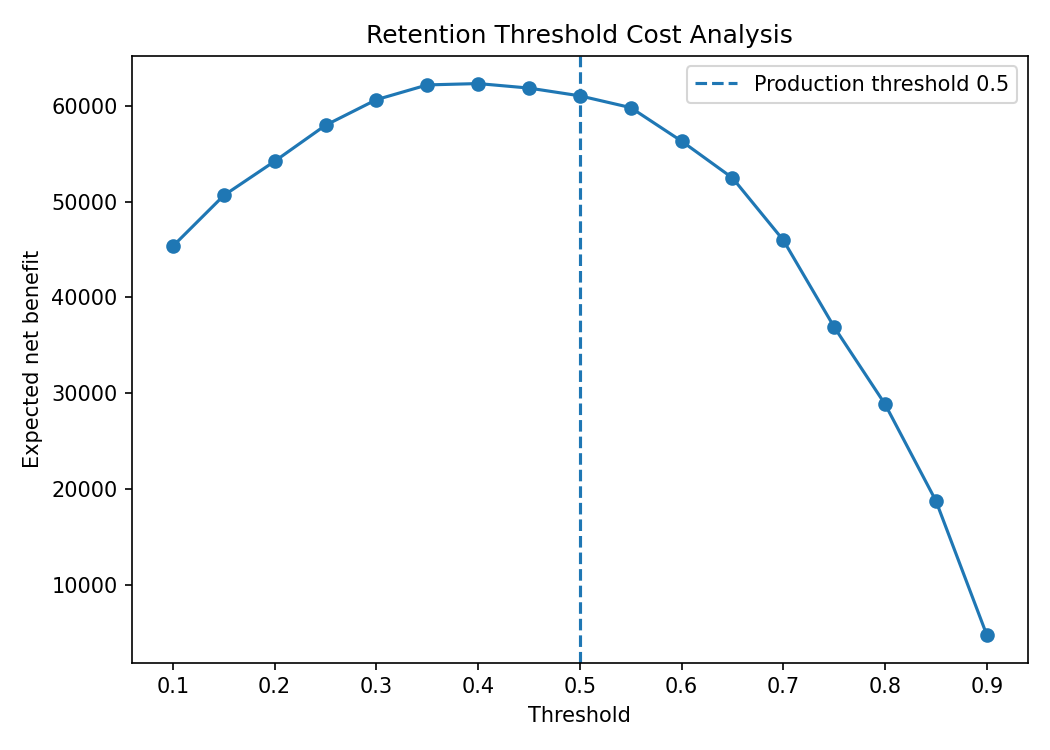
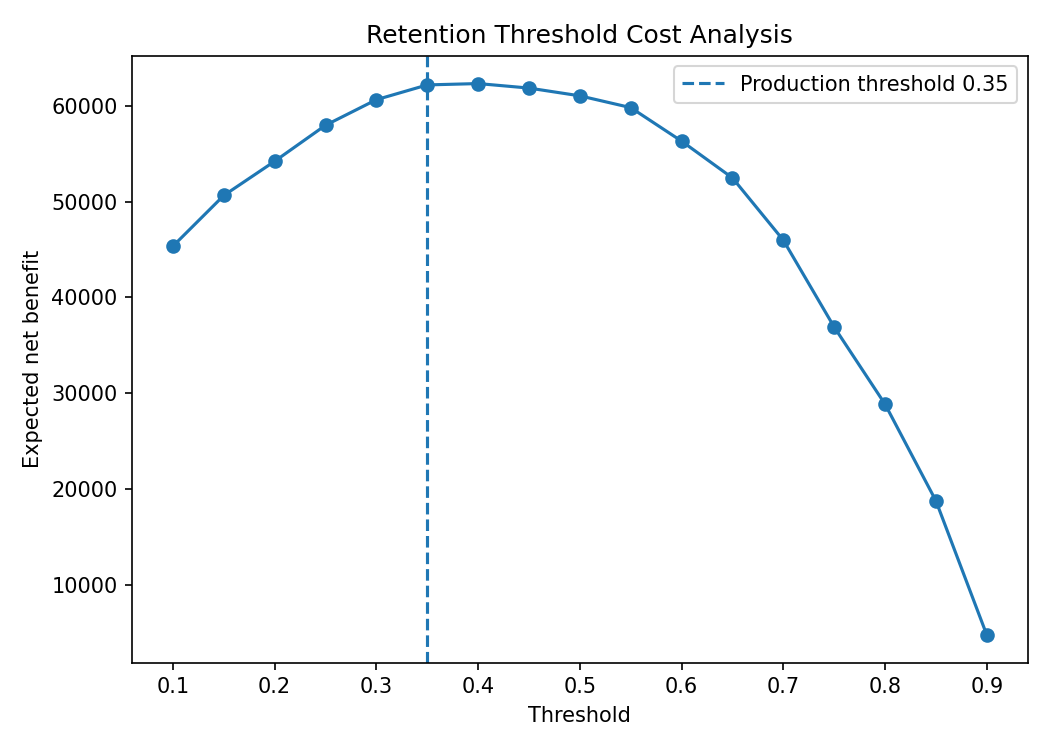
Set production churn threshold to 0.35 and align risk bands
Read the decision threshold from config in training and the cost analysis, derive the Medium risk band from it, add a test-set comparison of 0.35, 0.40 and 0.50, and update README metrics. The model is not retrained.

Changed region(s): [[0.701, 0.092, 0.9752, 0.1227], [0.64, 0.092, 0.6705, 0.1227]]

diff --git a/scripts/threshold_cost_analysis.py b/scripts/threshold_cost_analysis.py
@@ -16,6 +16,7 @@ sys.path.insert(0, os.path.abspath(os.path.join(os.path.dirname(__file__), "..")
 
 from src.features.preprocessing import prepare_features
 from src.serving.config import (
+    CHURN_THRESHOLD,
     MODEL_PATH,
     RANDOM_STATE,
     RAW_DATA_PATH,
@@ -78,13 +79,32 @@ def main() -> None:
     best = report.loc[report["net_benefit"].idxmax()]
     model.fit(X_train, y_train)
     test_probabilities = model.predict_proba(X_test)[:, 1]
-    test_labels = test_probabilities >= best["threshold"]
-    test_benefit = net_benefit(y_test.to_numpy(), test_probabilities, best["threshold"])
+    comparison_thresholds = [CHURN_THRESHOLD, float(best["threshold"]), 0.50]
+    comparison_rows = []
+    for threshold in comparison_thresholds:
+        test_labels = test_probabilities >= threshold
+        comparison_rows.append(
+            {
+                "threshold": threshold,
+                "precision": precision_score(y_test, test_labels, zero_division=0),
+                "recall": recall_score(y_test, test_labels, zero_division=0),
+                "net_benefit": net_benefit(
+                    y_test.to_numpy(), test_probabilities, threshold
+                ),
+            }
+        )
     os.makedirs(REPORTS_DIR, exist_ok=True)
     report.to_csv(os.path.join(REPORTS_DIR, "threshold_cost_analysis.csv"), index=False)
+    pd.DataFrame(comparison_rows).drop_duplicates("threshold").to_csv(
+        os.path.join(REPORTS_DIR, "threshold_test_comparison.csv"), index=False
+    )
     plt.figure(figsize=(7, 5))
     plt.plot(report["threshold"], report["net_benefit"], "o-")
-    plt.axvline(0.5, linestyle="--", label="Production threshold 0.5")
+    plt.axvline(
+        CHURN_THRESHOLD,
+        linestyle="--",
+        label=f"Production threshold {CHURN_THRESHOLD:.2f}",
+    )
     plt.xlabel("Threshold")
     plt.ylabel("Expected net benefit")
     plt.title("Retention Threshold Cost Analysis")
@@ -94,10 +114,16 @@ def main() -> None:
     plt.close()
     print(f"Recommended training-CV threshold: {best['threshold']:.2f}")
     print(f"Training-CV net benefit: {best['net_benefit']:.2f}")
-    print(f"Test precision: {precision_score(y_test, test_labels):.4f}")
-    print(f"Test recall: {recall_score(y_test, test_labels):.4f}")
-    print(f"Test net benefit: {test_benefit:.2f}")
-    print("Production threshold remains 0.50 until business costs are validated.")
+    print("Test-set threshold comparison:")
+    for row in comparison_rows:
+        print(
+            f"  {row['threshold']:.2f}: precision={row['precision']:.4f}, "
+            f"recall={row['recall']:.4f}, net benefit={row['net_benefit']:.2f}"
+        )
+    print(
+        f"Production threshold is {CHURN_THRESHOLD:.2f} until business costs "
+        "are validated."
+    )
 
 
 if __name__ == "__main__":

diff --git a/src/training/train.py b/src/training/train.py
@@ -33,6 +33,7 @@ from xgboost import XGBClassifier
 from src.features.preprocessing import prepare_features
 from src.serving.config import (
     CATEGORICAL_FEATURES,
+    CHURN_THRESHOLD,
     FEATURES_PATH,
     METADATA_PATH,
     MODEL_PATH,
@@ -150,7 +151,7 @@ def baseline(X_train, y_train, cv) -> tuple[Pipeline, dict]:
     }
 
 
-def evaluate(model, X_test, y_test, threshold=0.5) -> dict:
+def evaluate(model, X_test, y_test, threshold=CHURN_THRESHOLD) -> dict:
     """Calculate final classification metrics at a probability threshold."""
     probabilities = model.predict_proba(X_test)[:, 1]
     labels = (probabilities >= threshold).astype(int)
@@ -167,7 +168,7 @@ def threshold_analysis(model, X_test, y_test) -> pd.DataFrame:
     """Calculate precision, recall, and F1 across standard thresholds."""
     probabilities = model.predict_proba(X_test)[:, 1]
     rows = []
-    for threshold in [0.30, 0.40, 0.50, 0.60, 0.70]:
+    for threshold in [0.30, 0.35, 0.40, 0.50, 0.60, 0.70]:
         labels = (probabilities >= threshold).astype(int)
         rows.append(
             {

diff --git a/src/tests/test_predict.py b/src/tests/test_predict.py
@@ -5,6 +5,8 @@ import pandas as pd
 import pytest
 from unittest.mock import MagicMock
 
+from src.serving.config import CHURN_THRESHOLD
+
 
 # Test data.
 
@@ -67,6 +69,16 @@ class TestRiskLevel:
         from src.serving.utils import get_risk_level
 
         assert get_risk_level(0.4) == "Medium"
+
+    def test_configured_threshold_never_maps_to_low(self):
+        """Probabilities at or above the churn threshold are never low risk."""
+        from src.serving.utils import get_risk_level
+
+        assert get_risk_level(CHURN_THRESHOLD) == "Medium"
+        assert get_risk_level(CHURN_THRESHOLD - 0.01) == "Low"
+        for probability in np.arange(0.0, 1.01, 0.05):
+            if probability >= CHURN_THRESHOLD:
+                assert get_risk_level(probability) != "Low"
 
 
 class TestPredictProba:

diff --git a/src/serving/config.py b/src/serving/config.py
@@ -20,8 +20,8 @@ REPORTS_DIR = os.path.join(BASE_DIR, "reports")
 
 # ML settings.
 TARGET_COL = "Churn"
-CHURN_THRESHOLD = 0.5
-RISK_MEDIUM_THRESHOLD = 0.4
+CHURN_THRESHOLD = 0.35
+RISK_MEDIUM_THRESHOLD = CHURN_THRESHOLD
 RISK_HIGH_THRESHOLD = 0.7
 RANDOM_STATE = 42
 TEST_SIZE = 0.2

diff --git a/README.md b/README.md
@@ -41,6 +41,7 @@ TELECOM-CHURN-PREDICTION/
 │   ├── shap_waterfall_client_1.png
 │   ├── threshold_analysis.csv
 │   ├── threshold_cost_analysis.csv
+│   ├── threshold_test_comparison.csv
 │   └── threshold_cost_curve.png
 ├── scripts/
 │   ├── calibration_report.py
@@ -162,8 +163,8 @@ same five-fold stratified randomized search. The generated CV results are:
 
 These models are within cross-validation noise. Random Forest is retained by
 the pre-declared rule: highest mean CV ROC-AUC. The untouched-test results at
-the production threshold of 0.5 are ROC-AUC `0.8448`, PR-AUC `0.6542`, F1
-`0.6398`, precision `0.5394`, and recall `0.7861`.
+the production threshold of 0.35 are ROC-AUC `0.8448`, PR-AUC `0.6542`, F1
+`0.5971`, precision `0.4540`, and recall `0.8717`.
 
 ## Explainability
 
@@ -182,17 +183,24 @@ in deployed environments.
 
 ## Business Impact and Threshold
 
-The current production threshold remains `0.50`. A separate analysis selected
-`0.40` on training cross-validation predictions under these assumed,
-editable costs:
+The production threshold is `0.35`, chosen inside the flat `0.35`-`0.50`
+training-CV plateau to favor recall. The strict training-CV optimum is `0.40`:
+net benefit is `62,190` at `0.35`, `62,330` at `0.40`, and `61,050` at `0.50`.
 
 - Retention offer cost: `20`
 - Customer lifetime value: `300`
 - Retention success rate: `0.30`
 
-These are not operator data. The training-CV net benefit was `62,330` at
-0.40 versus `61,050` at 0.50. On the untouched test set, threshold 0.40
-produced precision `0.4832`, recall `0.8449`, and net benefit `15,360`.
+These costs are assumptions, not operator data. On the untouched test set:
+
+| Threshold | Precision | Recall | Net benefit |
+|---:|---:|---:|---:|
+| 0.35 | 0.4540 | 0.8717 | 14,980 |
+| 0.40 | 0.4832 | 0.8449 | 15,360 |
+| 0.50 | 0.5394 | 0.7861 | 15,560 |
+
+The differences between these thresholds are within noise. The threshold
+should be revalidated with real retention costs and outcomes.
 
 | Threshold | Training-CV net benefit |
 |---:|---:|
